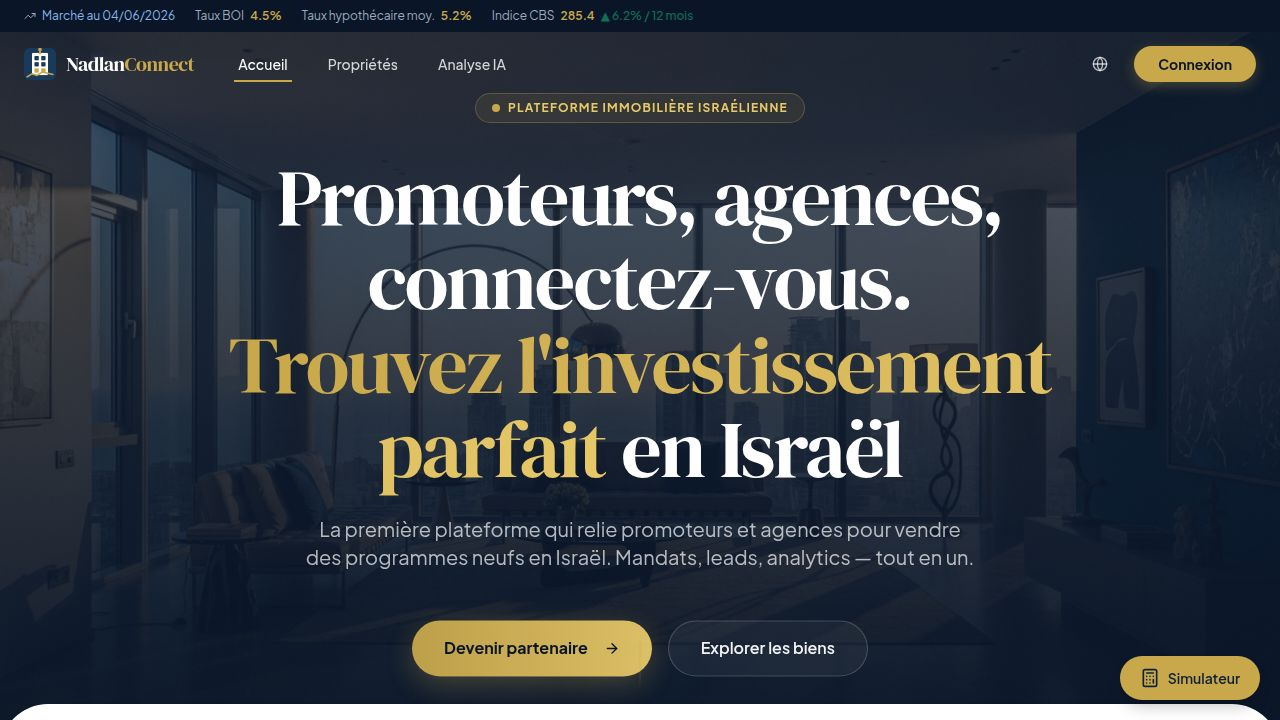
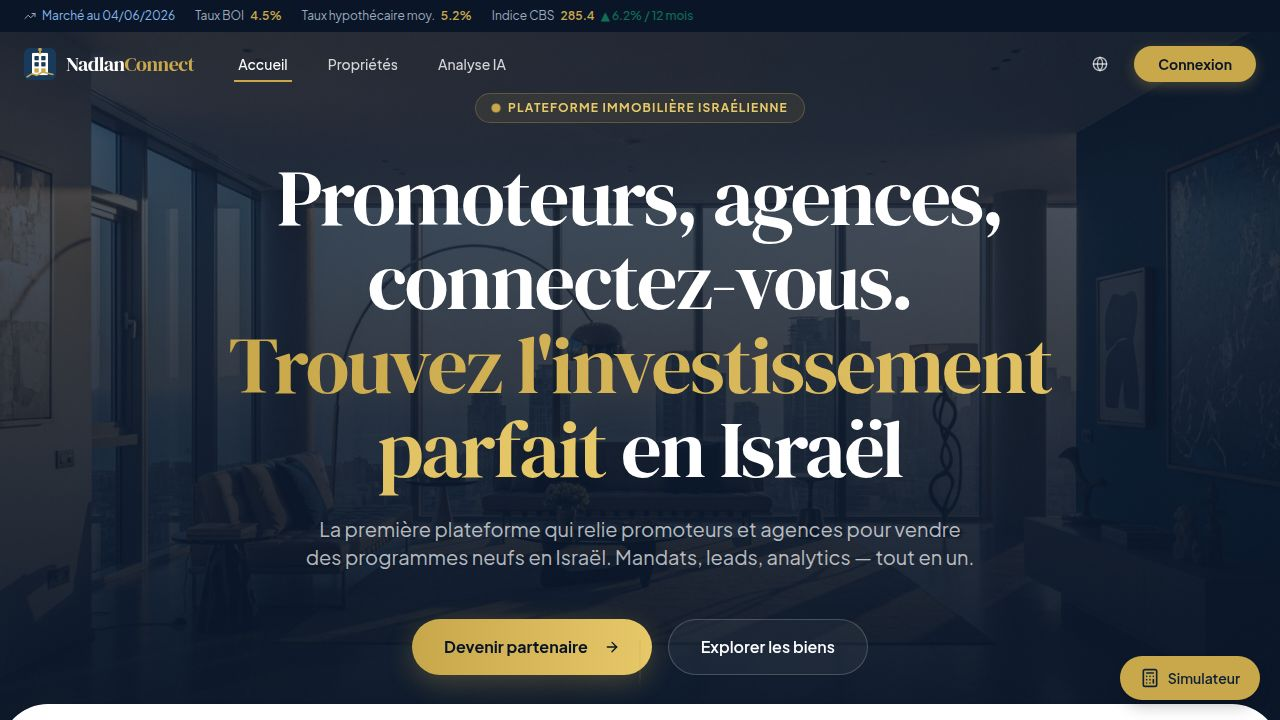
Prompt logged-out visitors to sign in on the Favorites page
Task: The /favorites page only makes sense for signed-in users. Logged-out
visitors saw a confusing blank state (the favorites request 401s, leaving
just the title/subtitle with no list or guidance).

Changes:
- artifacts/nadlan-connect/src/pages/favorites.tsx: use useAuth() to detect
  the unauthenticated case. Disable the useGetMyFavorites query when not
  authenticated (avoids the wasted 401 request / endless skeletons). Render a
  friendly sign-in prompt (title + subtitle + "Se connecter" button linking
  to /auth/login) when the visitor is logged out. Skeletons show only while
  auth or favorites are still loading.
- artifacts/nadlan-connect/src/lib/i18n.ts: added favorites.signin.title,
  favorites.signin.subtitle, favorites.signin.cta keys to all 3 language
  blocks (FR/EN/HE). Reuses the existing dashed-border card styling so it
  works in RTL.

Verification: typecheck passes for the favorites change; visually confirmed
the sign-in prompt renders for a logged-out visitor.

Note: pre-existing typecheck errors remain in src/components/listing-card.tsx
(galleryImageUrls on Listing) from a separate in-progress task ("Add sample
photos to demo listings") — unrelated to and untouched by this change.

Replit-Task-Id: a0845a1c-b48a-4582-aa67-ba8d10b1208b

Changed region(s): [[0.3125, 0.8556, 0.5, 0.9472], [0.5312, 0.8861, 0.6562, 0.9472], [0.4375, 0.7333, 0.4688, 0.7639]]

diff --git a/artifacts/nadlan-connect/src/pages/favorites.tsx b/artifacts/nadlan-connect/src/pages/favorites.tsx
@@ -12,9 +12,13 @@ import { Button } from "@/components/ui/button";
 import { ToastAction } from "@/components/ui/toast";
 import { useToast } from "@/hooks/use-toast";
 import { useLanguage } from "@/components/layout/language-provider";
+import { useAuth } from "@/hooks/use-auth";
 
 export default function Favorites() {
-  const { data: favorites, isLoading } = useGetMyFavorites();
+  const { isAuthenticated, isLoading: isAuthLoading } = useAuth();
+  const { data: favorites, isLoading } = useGetMyFavorites({
+    query: { enabled: isAuthenticated, queryKey: getGetMyFavoritesQueryKey() },
+  });
   const { t } = useLanguage();
   const { toast } = useToast();
   const queryClient = useQueryClient();
@@ -82,7 +86,15 @@ export default function Favorites() {
       <h1 className="font-serif text-3xl font-bold text-primary mb-2">{t("favorites.title")}</h1>
       <p className="text-muted-foreground mb-8">{t("favorites.subtitle")}</p>
 
-      {isLoading ? (
+      {!isAuthLoading && !isAuthenticated ? (
+        <div className="text-center py-20 bg-muted/30 rounded-xl border border-dashed">
+          <h3 className="text-xl font-medium mb-2">{t("favorites.signin.title")}</h3>
+          <p className="text-muted-foreground mb-6">{t("favorites.signin.subtitle")}</p>
+          <Link href="/auth/login">
+            <Button>{t("favorites.signin.cta")}</Button>
+          </Link>
+        </div>
+      ) : isAuthLoading || isLoading ? (
         <div className="grid grid-cols-1 md:grid-cols-2 lg:grid-cols-3 gap-6">
           {[1, 2, 3].map(i => <div key={i} className="h-[400px] bg-muted animate-pulse rounded-xl" />)}
         </div>

diff --git a/artifacts/nadlan-connect/src/lib/i18n.ts b/artifacts/nadlan-connect/src/lib/i18n.ts
@@ -311,6 +311,9 @@ const fr: Dict = {
   "favorites.empty.cta": "Parcourir les propriétés",
   "favorites.removed": "Favori retiré",
   "favorites.undo": "Annuler",
+  "favorites.signin.title": "Connectez-vous pour voir vos favoris",
+  "favorites.signin.subtitle": "Connectez-vous pour retrouver les biens que vous avez sauvegardés.",
+  "favorites.signin.cta": "Se connecter",
   "detail.loginContact": "Connectez-vous pour contacter l'agent",
   "detail.messageSent": "Message envoyé avec succès",
   "detail.mandateSent": "Candidature envoyée !",
@@ -1066,6 +1069,9 @@ const en: Dict = {
   "favorites.empty.cta": "Browse properties",
   "favorites.removed": "Removed from favorites",
   "favorites.undo": "Undo",
+  "favorites.signin.title": "Sign in to see your favorites",
+  "favorites.signin.subtitle": "Sign in to find the properties you have saved.",
+  "favorites.signin.cta": "Sign in",
   "detail.loginContact": "Sign in to contact the agent",
   "detail.messageSent": "Message sent successfully",
   "detail.mandateSent": "Application sent!",
@@ -1820,6 +1826,9 @@ const he: Dict = {
   "favorites.empty.cta": "עיון בנכסים",
   "favorites.removed": "הוסר מהמועדפים",
   "favorites.undo": "ביטול",
+  "favorites.signin.title": "התחברו כדי לראות את המועדפים שלכם",
+  "favorites.signin.subtitle": "התחברו כדי למצוא את הנכסים ששמרתם.",
+  "favorites.signin.cta": "התחברות",
   "detail.loginContact": "התחברו כדי ליצור קשר עם הסוכן",
   "detail.messageSent": "ההודעה נשלחה בהצלחה",
   "detail.mandateSent": "הבקשה נשלחה!",